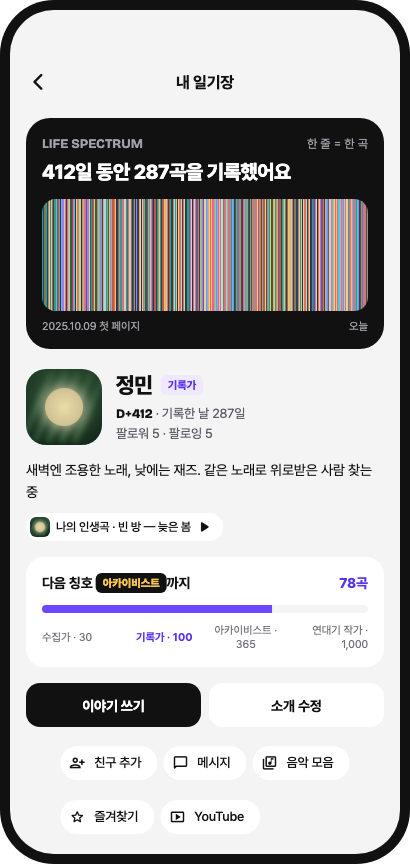
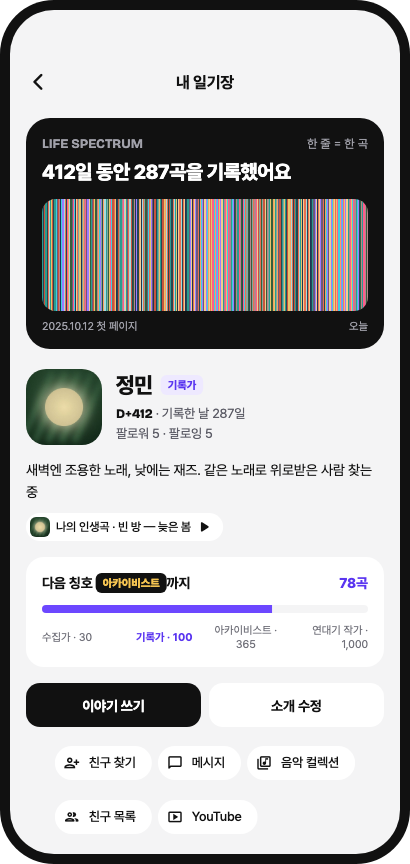
[docs] README에 새 화면 6장 추가, 버전 배지·기술 스택 최신화
- 화면 소개를 사용자 이동 순서 12장으로 (로그인·이야기 쓰기·이야기 상세·미니 프로필·채팅방·음악 컬렉션 추가)
- README 이미지 생성기에 새 화면과 예시 데이터(대화·음악 컬렉션) 추가
- 버전 배지 v2.2.0, 기술 스택에서 쓰지 않는 Firebase Storage 제거
- 내 일기장 화면 이미지 갱신 (바로가기 이름 변경 반영)

diff --git a/tool/readme/generate_readme_images_test.dart b/tool/readme/generate_readme_images_test.dart
@@ -4,7 +4,7 @@
 // 결과: docs/readme/*.png (README.md가 이 이미지들을 쓴다)
 //
 // 앱의 실제 글꼴(Pretendard, Bricolage Grotesque)과 컴포넌트로 배너·개념 카드·디자인 견본·
-// 칭호 배지를 그리고, 화면 6장은 실제 앱 화면을 예시 데이터(readme_fixtures.dart)로 렌더링한다.
+// 칭호 배지를 그리고, 화면 12장은 실제 앱 화면을 예시 데이터(readme_fixtures.dart)로 렌더링한다.
 // test/ 밖에 두어서 일반 `flutter test`에는 포함되지 않는다.
 import 'dart:ui' as ui;
 
@@ -15,6 +15,16 @@ import 'package:get/get.dart';
 import 'package:music_is_life/core/theme/app_theme.dart';
 import 'package:music_is_life/core/theme/tokens/tokens.dart';
 import 'package:music_is_life/core/widgets/components/components.dart';
+import 'package:music_is_life/features/auth/presentation/login/login_controller.dart';
+import 'package:music_is_life/features/auth/presentation/login/login_screen.dart';
+import 'package:music_is_life/features/contents/presentation/screens/content_detail_screen.dart';
+import 'package:music_is_life/features/contents/presentation/screens/create_content_screen.dart';
+import 'package:music_is_life/features/messenger/domain/entities/chat.dart';
+import 'package:music_is_life/features/messenger/presentation/screen/chat_bubble_screen.dart';
+import 'package:music_is_life/features/music/domain/entities/track.dart';
+import 'package:music_is_life/features/music/presentation/music_controller.dart';
+import 'package:music_is_life/features/music/presentation/screens/playlist_screen.dart';
+import 'package:music_is_life/features/profile/presentation/widgets/mini_profile_sheet.dart';
 import 'package:music_is_life/features/auth/presentation/welcome/welcome_screen.dart';
 import 'package:music_is_life/features/contents/presentation/contents_controller.dart';
 import 'package:music_is_life/features/contents/presentation/lounge/lounge_fragment.dart';
@@ -109,6 +119,18 @@ void main() {
     Get.put(MessengerController(FakeMessengerRepository(), profileRepository,
         uid: me, userName: '정민'));
     Get.put(AppSearchController(profileRepository, contents));
+    final spotify = FakeSpotifyRepository();
+    final unused = UnusedMusicRepository();
+    Get.put(MusicController(
+      account: spotify,
+      search: spotify,
+      playlist: FakePlaylistRepository(),
+      playback: unused,
+      youtube: unused,
+      profile: profileRepository,
+      uid: me,
+    ));
+    Get.put(LoginController(UnusedAuthRepository()));
   }
 
   group('README 배너·카드', () {
@@ -153,13 +175,32 @@ void main() {
   });
 
   group('README 화면', () {
+    // 공감을 가장 많이 받은 night_neon의 이야기 (이야기 상세 화면용)
+    final featured = stories.firstWhere((c) => c.authorUid == 'night_neon');
+    const room = ChatRoom(
+      id: 'r1',
+      name: '새벽 감성 모임',
+      memberUids: [me, 'night_neon', 'haneul.forest', 'morae_al'],
+      memberNames: {
+        me: '정민',
+        'night_neon': 'night_neon',
+        'haneul.forest': 'haneul.forest',
+        'morae_al': 'morae_al',
+      },
+    );
     final screens = <String, Widget>{
       'welcome': const WelcomeScreen(),
+      'login': const LogInScreen(),
       'home': const HomeScreen(),
+      'write': const CreateContentScreen(),
+      'detail': ContentDetailScreen(content: featured),
       'lounge': const LoungeFragment(),
       'search': const SearchFragment(),
+      'miniprofile': const _MiniProfilePreview(),
       'messenger': const MessengerFragment(),
+      'chat': const ChatBubbleScreen(room: room),
       'mypage': const MyScreen(),
+      'collection': const MusicCollectionScreen(),
     };
     screens.forEach((name, screen) {
       testWidgets('screen-$name.png', (tester) async {
@@ -169,17 +210,64 @@ void main() {
           name: 'screen-$name.png',
           size: const Size(410, 864),
           child: _PhoneFrame(child: screen),
-          before: name == 'search'
-              ? () async {
-                  await tester.pump();
-                  await tester.enterText(find.byType(TextField), 'a');
-                  await tester.pump();
-                }
-              : null,
+          before: switch (name) {
+            'search' => () async {
+                await tester.pump();
+                await tester.enterText(find.byType(TextField), 'a');
+                await tester.pump();
+              },
+            'write' => () async {
+                await tester.pump();
+                Get.find<MusicController>().pickForContent(const Track(
+                    id: 'w1',
+                    name: '도시의 불빛',
+                    artistsName: '네온 라디오',
+                    imageUrl: Covers.dawn));
+                final fields = find.byType(TextField);
+                await tester.enterText(
+                    fields.at(0), '새벽, 무작정 강변을 달렸다');
+                await tester.enterText(fields.at(1),
+                    '창문을 조금 내리고 이 노래를 틀었을 때 그제야 숨이 쉬어졌다.\n요즘 잠 못 드는 사람들한테 꼭 들려주고 싶은 곡.');
+                await tester.enterText(fields.at(2), '#새벽 #위로');
+                FocusManager.instance.primaryFocus?.unfocus();
+                await tester.pump();
+              },
+            'login' => () async {
+                await tester.pump();
+                await tester.enterText(
+                    find.byType(TextFormField).at(0), 'jungmin@example.com');
+                FocusManager.instance.primaryFocus?.unfocus();
+                await tester.pump();
+              },
+            _ => null,
+          },
         );
       });
     });
   });
+}
+
+/// 미니 프로필: 검색 화면 위로 올라온 바텀시트처럼 그린다.
+class _MiniProfilePreview extends StatelessWidget {
+  const _MiniProfilePreview();
+
+  @override
+  Widget build(BuildContext context) {
+    return Stack(
+      fit: StackFit.expand,
+      children: [
+        const SearchFragment(),
+        const ColoredBox(color: Color(0x73111111)),
+        Align(
+          alignment: Alignment.bottomCenter,
+          child: Theme(
+            data: AppTheme.light,
+            child: MiniProfileSheet(profile: profiles['night_neon']!),
+          ),
+        ),
+      ],
+    );
+  }
 }
 
 /// 휴대폰 테두리: 화면을 390x844로 그리고 상단 안전 영역(44)을 비워 둔다.

diff --git a/tool/readme/readme_fixtures.dart b/tool/readme/readme_fixtures.dart
@@ -7,12 +7,15 @@ import 'dart:typed_data';
 
 import 'package:flutter/painting.dart';
 import 'package:music_is_life/core/result/result.dart';
+import 'package:music_is_life/features/auth/domain/repositories/auth_repository.dart';
 import 'package:music_is_life/features/contents/domain/entities/content.dart';
 import 'package:music_is_life/features/contents/domain/repositories/contents_repository.dart';
 import 'package:music_is_life/features/friends/domain/entities/friend_relations.dart';
 import 'package:music_is_life/features/friends/domain/repositories/friends_repository.dart';
 import 'package:music_is_life/features/messenger/domain/entities/chat.dart';
 import 'package:music_is_life/features/messenger/domain/repositories/messenger_repository.dart';
+import 'package:music_is_life/features/music/domain/entities/track.dart';
+import 'package:music_is_life/features/music/domain/repositories/music_repositories.dart';
 import 'package:music_is_life/features/profile/domain/entities/user_profile.dart';
 import 'package:music_is_life/features/profile/domain/repositories/profile_repository.dart';
 
@@ -145,7 +148,10 @@ Content _story(String author, int n, DateTime at,
     imageUrl: '',
     createdAt: at,
     likedBy: List.generate(likes, (i) => 'u$i'),
-    track: ContentTrack(name: s.$1, artistsName: s.$2, imageUrl: song >= 0 ? s.$3 : '${s.$3}?n=$author-$n'),
+    track: ContentTrack(
+        name: s.$1,
+        artistsName: s.$2,
+        imageUrl: song >= 0 ? s.$3 : '${s.$3}?n=$author-$n'),
   );
 }
 
@@ -304,6 +310,29 @@ class FakeFriendsRepository implements FriendsRepository {
 }
 
 class FakeMessengerRepository implements MessengerRepository {
+  /// 채팅방 화면 예시 대화 (최신순)
+  @override
+  Stream<List<ChatMessage>> watchMessages(String roomId) {
+    final today = DateTime.now();
+    DateTime at(int daysAgo, int h, int m) =>
+        DateTime(today.year, today.month, today.day - daysAgo, h, m);
+    ChatMessage msg(
+            String id, String uid, String name, String text, DateTime t) =>
+        ChatMessage(
+            id: id, senderUid: uid, senderName: name, text: text, sentAt: t);
+    return Stream.value([
+      msg('8', me, '정민', '오늘 밤에 또 틀어야겠다', at(0, 21, 9)),
+      msg('7', me, '정민', '맞아 그 노래 진짜 위로돼. 나도 작년 겨울에 그 곡으로 버텼어', at(0, 21, 8)),
+      msg('6', 'haneul.forest', 'haneul.forest', '나도 방금 들었는데 가사가 딱 그때 얘기 같더라',
+          at(0, 21, 7)),
+      msg('5', 'night_neon', 'night_neon', '어제 올린 이야기 봤어? 「도시의 불빛」',
+          at(0, 21, 6)),
+      msg('4', 'night_neon', 'night_neon', '새벽에 강변 달리면서 듣던 노래야', at(0, 21, 6)),
+      msg('3', me, '정민', '응 잘 자!', at(1, 23, 40)),
+      msg('2', 'morae_al', 'morae_al', '먼저 잘게~ 내일 또 얘기해', at(1, 23, 38)),
+    ]);
+  }
+
   @override
   Stream<List<ChatRoom>> watchRooms(String uid) => Stream.value(const [
         ChatRoom(id: 'r1', name: '새벽 감성 모임', memberUids: [
@@ -409,6 +438,46 @@ class _CoverResponse extends Stream<List<int>> implements HttpClientResponse {
       Stream<List<int>>.value(bytes).listen(onData,
           onError: onError, onDone: onDone, cancelOnError: cancelOnError);
 
+  @override
+  dynamic noSuchMethod(Invocation invocation) => super.noSuchMethod(invocation);
+}
+
+/// 음악 컬렉션 화면용: Spotify는 연결된 것으로 보고, 담아 둔 곡 목록을 돌려준다.
+class FakeSpotifyRepository
+    implements SpotifyAccountRepository, TrackSearchRepository {
+  @override
+  Future<bool> isConnected() async => true;
+
+  @override
+  dynamic noSuchMethod(Invocation invocation) => super.noSuchMethod(invocation);
+}
+
+class FakePlaylistRepository implements PlaylistRepository {
+  @override
+  Stream<List<PlaylistEntry>> watch(String uid) => Stream.value([
+        for (final (i, (name, artist, cover)) in _songs.indexed)
+          PlaylistEntry(
+            docId: 'p$i',
+            // 내 인생곡(빈 방)은 프로필 곡 ID와 같게 둔다.
+            track: Track(
+                id: name == '빈 방' ? 't-me' : 'p$i',
+                name: name,
+                artistsName: artist,
+                imageUrl: cover),
+            addedAt: DateTime(2026, 11, 1),
+          ),
+      ]);
+
+  @override
+  dynamic noSuchMethod(Invocation invocation) => super.noSuchMethod(invocation);
+}
+
+class UnusedMusicRepository implements PlaybackRepository, YoutubeRepository {
+  @override
+  dynamic noSuchMethod(Invocation invocation) => super.noSuchMethod(invocation);
+}
+
+class UnusedAuthRepository implements AuthRepository {
   @override
   dynamic noSuchMethod(Invocation invocation) => super.noSuchMethod(invocation);
 }

diff --git a/README.md b/README.md
@@ -9,7 +9,7 @@
 
 ![Flutter](https://img.shields.io/badge/Flutter-3.44-02569B?logo=flutter&logoColor=white)
 ![Dart](https://img.shields.io/badge/Dart-3.12-0175C2?logo=dart&logoColor=white)
-![Version](https://img.shields.io/badge/version-v2.1.1-6C47FF)
+![Version](https://img.shields.io/badge/version-v2.2.0-6C47FF)
 ![Platform](https://img.shields.io/badge/platform-Android%20·%20iOS-3FB950)
 ![Firebase](https://img.shields.io/badge/backend-Firebase-F57C00?logo=firebase&logoColor=white)
 
@@ -55,20 +55,32 @@
 
 ## 화면
 
+사용자가 이동하는 순서대로 놓았어요.
+
 <table>
   <tr>
     <td align="center"><img src="docs/readme/screen-welcome.png" width="240" alt="웰컴 화면"><br><b>웰컴</b><br><sub>당신의 인생곡은 무엇인가요?</sub></td>
+    <td align="center"><img src="docs/readme/screen-login.png" width="240" alt="로그인 화면"><br><b>로그인</b><br><sub>다시 만나서 반가워요</sub></td>
     <td align="center"><img src="docs/readme/screen-home.png" width="240" alt="홈 화면"><br><b>홈</b><br><sub>오늘의 기록 · 지금 공감받는 이야기</sub></td>
+  </tr>
+  <tr>
+    <td align="center"><img src="docs/readme/screen-write.png" width="240" alt="이야기 쓰기 화면"><br><b>이야기 쓰기</b><br><sub>곡 하나 + 짧은 이야기</sub></td>
+    <td align="center"><img src="docs/readme/screen-detail.png" width="240" alt="이야기 상세 화면"><br><b>이야기 상세</b><br><sub>SIDE B 노래 · SIDE A 이야기</sub></td>
     <td align="center"><img src="docs/readme/screen-lounge.png" width="240" alt="라운지 화면"><br><b>라운지</b><br><sub>세로로 넘기는 이야기 피드</sub></td>
   </tr>
   <tr>
     <td align="center"><img src="docs/readme/screen-search.png" width="240" alt="검색 화면"><br><b>검색</b><br><sub>칭호와 인생 스펙트럼</sub></td>
+    <td align="center"><img src="docs/readme/screen-miniprofile.png" width="240" alt="미니 프로필 화면"><br><b>미니 프로필</b><br><sub>인생곡 앨범 · 스펙트럼 · 팔로우</sub></td>
     <td align="center"><img src="docs/readme/screen-messenger.png" width="240" alt="메신저 화면"><br><b>메신저</b><br><sub>친구들의 인생곡</sub></td>
+  </tr>
+  <tr>
+    <td align="center"><img src="docs/readme/screen-chat.png" width="240" alt="채팅방 화면"><br><b>채팅방</b><br><sub>날짜별 대화 · 인생곡 앨범</sub></td>
     <td align="center"><img src="docs/readme/screen-mypage.png" width="240" alt="내 일기장 화면"><br><b>내 일기장</b><br><sub>스펙트럼 · 디스코그래피 · 타임라인</sub></td>
+    <td align="center"><img src="docs/readme/screen-collection.png" width="240" alt="음악 컬렉션 화면"><br><b>음악 컬렉션</b><br><sub>나의 인생곡 · 담아 둔 곡</sub></td>
   </tr>
 </table>
 
-<sub>* 화면 이미지는 실제 앱 화면을 예시 데이터로 그린 것이에요.</sub>
+<sub>* 화면 이미지는 실제 앱 화면을 예시 데이터로 그린 것이에요. 이 밖에 회원가입·곡 고르기·채팅방 만들기·친구 찾기·친구 목록·YouTube에서 찾기 화면이 있어요.</sub>
 
 ## 기록이 쌓이면
 
@@ -94,7 +106,7 @@
 | 분야 | 사용 기술 |
 |---|---|
 | 앱 | Flutter 3.44 · Dart 3.12 · GetX |
-| 백엔드 | Firebase Auth · Cloud Firestore · Storage · Cloud Messaging |
+| 백엔드 | Firebase Auth · Cloud Firestore · Cloud Messaging |
 | 음악 | Spotify Web API (PKCE 로그인) · YouTube 영상 재생 |
 | 디자인 | Pretendard · Bricolage Grotesque · 자체 디자인 토큰 |
 | 테스트 | flutter_test · fake_cloud_firestore |
